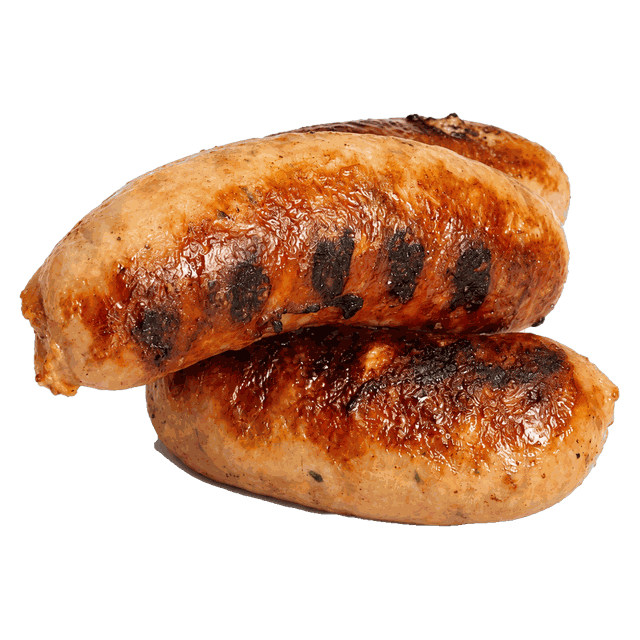
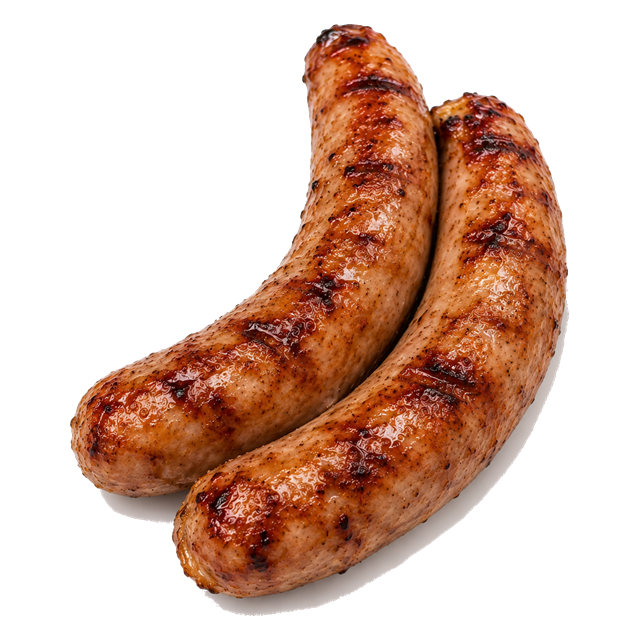
Шість фото і виправлення двох привязок
Нові знімки: вирізка, стейк курячий, ковбаски гриль асорті, ковбаска
куряча з пивом, картопля по-селянськи, гриби печериці. Білий фон і
мяка тінь зрізані, формат як у решти каталогу: 640x640, png з
прозорістю, товар по центру з полями.

Дві привязки були неправильні:

- Фото, що стояло на «Ковбаски гриль асорті», насправді показує
  курячу з сиром. Перенесено туди, файл перейменовано у
  kovb-kur-syr.png. Асорті отримало власний новий знімок.

- На «Овочі / Картопля» стояло фото смаженої картоплі по-селянськи.
  Це сира картопля в упаковці на кілограм, її беруть смажити на
  мангалі. Привязку знято, файл kartoplya-selyanska.png видалено:
  для позиції «Фритюр меню / Картопля по-селянськи» тепер є свій,
  новий знімок.

Позицій без фото було 13, лишилось 8. Файлів і посилань на них
порівну, битих картинок у жодній категорії немає.

diff --git a/index.html b/index.html
@@ -786,7 +786,8 @@ const PHOTO={
  'Фритюр меню/Картопля фрі':'kartoplya-fri.png',
  'Фритюр меню/Сет на компанію + 2 соуси':'set-kompaniya.png',
  'Ковбаски/Індича':'kovb-indycha.png',
- 'Овочі/Картопля':'kartoplya-selyanska.png',
+ /* 'Овочі/Картопля' — сира картопля в упаковці. Тут стояло фото
+    смаженої «по-селянськи»: воно про іншу, готову позицію. */
  'Овочі/Кукурудза':'kukurudza.png',
  'Овочі/Перець':'perets.png',
  'Стейк на кістці':'steyk-kistka.png',
@@ -794,7 +795,7 @@ const PHOTO={
  'Ковбаски/Віденська':'kovb-videnska.png',
  'Ковбаски/Свиняча':'kovb-svynyacha.png',
  'Ковбаски/Куряча':'kovb-kuryacha.png',
- 'Ковбаски/Ковбаски гриль асорті':'kovb-asorti.png',
+ 'Ковбаски/Куряча з сиром':'kovb-kur-syr.png',
  'Чевапчічі/Класичні':'chevap-klas.png',
  'Курка/Гомілка':'kur-homilka.png',
  'Курка/Крило':'kur-krylo.png',
@@ -808,7 +809,13 @@ const PHOTO={
  'Стейк з ошийка':'steyk-oshyyok.png',
  'Сири/Сулугуні':'sulhuni.png',
  'Стейк Рібай':'ribay.png',
- 'Шашлик з телятини':'shashlyk-telyatyna.png'
+ 'Шашлик з телятини':'shashlyk-telyatyna.png',
+ 'Свинина/Вирізка':'vyrizka.png',
+ 'Курка/Стейк':'steyk-kur.png',
+ 'Ковбаски/Ковбаски гриль асорті':'kovb-asorti.png',
+ 'Ковбаски/Куряча з пивом':'kovb-kur-pyvo.png',
+ 'Фритюр меню/Картопля по-селянськи':'kartoplya-po-selyansky.png',
+ 'Овочі/Гриби печериці':'hryby.png'
 };
 const photoOf=it=>{
   const k=PHOTO[it.grp+'/'+it.name]||PHOTO[it.name];
